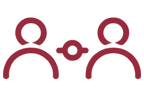
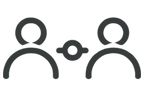
탭 선택색을 진한 회색(#353839)으로 바꾸고, 언어 버튼을 로고 옆 지구 메뉴로 모음
안 고른 탭은 옅은 회색으로 물려 선택과 구분되게 했다.
지구 버튼을 누르면 나라별 언어가 제 나라 글자로 내려오고, 바깥 클릭·Esc로 닫힌다.

Claude-Session: https://claude.ai/code/session_0197ATQkKD5Zk7kEfxxuqvBf

diff --git a/components/ui/LangMenu.tsx b/components/ui/LangMenu.tsx
@@ -1,0 +1,133 @@
+"use client";
+
+import { useEffect, useRef, useState } from "react";
+import { LANGS, type LangCode } from "@/lib/i18n";
+import { useToast } from "@/components/ui/Toast";
+
+/**
+ * 로고 옆 지구 버튼. 누르면 나라별 언어가 목록으로 내려온다.
+ * 바깥을 누르거나 Esc를 누르면 닫힌다. 준비 중인 언어는 고르면 안내만 띄운다.
+ */
+export default function LangMenu({
+  lang,
+  onChange,
+}: {
+  lang: LangCode;
+  onChange: (code: LangCode) => void;
+}) {
+  const toast = useToast();
+  const [open, setOpen] = useState(false);
+  const box = useRef<HTMLDivElement>(null);
+  const current = LANGS.find((l) => l.code === lang);
+
+  useEffect(() => {
+    if (!open) return;
+    const onDown = (e: PointerEvent) => {
+      if (!box.current?.contains(e.target as Node)) setOpen(false);
+    };
+    const onKey = (e: KeyboardEvent) => e.key === "Escape" && setOpen(false);
+    document.addEventListener("pointerdown", onDown);
+    document.addEventListener("keydown", onKey);
+    return () => {
+      document.removeEventListener("pointerdown", onDown);
+      document.removeEventListener("keydown", onKey);
+    };
+  }, [open]);
+
+  return (
+    <div ref={box} className="relative">
+      <button
+        type="button"
+        aria-label="언어 선택"
+        aria-haspopup="listbox"
+        aria-expanded={open}
+        onClick={() => setOpen((v) => !v)}
+        className={`flex items-center gap-1 rounded-pill py-1.5 pl-2 pr-2.5 text-xs font-semibold text-ink transition ${
+          open ? "bg-white shadow-float" : "bg-white/60 hairline hover:bg-white"
+        }`}
+      >
+        <GlobeIcon />
+        {current?.label}
+      </button>
+
+      {open && (
+        <ul
+          role="listbox"
+          aria-label="언어"
+          className="tabbar animate-pop absolute left-0 top-full z-40 mt-2 w-44 origin-top-left rounded-[20px] p-1.5"
+        >
+          {LANGS.map((l) => {
+            const on = l.code === lang;
+            return (
+              <li key={l.code}>
+                <button
+                  type="button"
+                  role="option"
+                  aria-selected={on}
+                  onClick={() => {
+                    if (l.comingSoon) {
+                      toast("Coming soon");
+                      return;
+                    }
+                    onChange(l.code);
+                    setOpen(false);
+                  }}
+                  className={`flex w-full items-center gap-2.5 rounded-[14px] px-3 py-2 text-left text-sm transition ${
+                    on ? "bg-ink text-white" : "text-ink hover:bg-black/5"
+                  } ${l.comingSoon ? "opacity-50" : ""}`}
+                >
+                  <span
+                    className={`w-6 text-[11px] font-semibold ${on ? "text-white/70" : "text-ink-sub"}`}
+                  >
+                    {l.label}
+                  </span>
+                  <span className="flex-1 font-medium">{l.name}</span>
+                  {on && <CheckIcon />}
+                  {l.comingSoon && (
+                    <span className="text-[10px] text-ink-sub">준비 중</span>
+                  )}
+                </button>
+              </li>
+            );
+          })}
+        </ul>
+      )}
+    </div>
+  );
+}
+
+function GlobeIcon() {
+  return (
+    <svg
+      aria-hidden
+      viewBox="0 0 24 24"
+      className="h-[18px] w-[18px]"
+      fill="none"
+      stroke="currentColor"
+      strokeWidth="1.8"
+      strokeLinecap="round"
+      strokeLinejoin="round"
+    >
+      <circle cx="12" cy="12" r="9" />
+      <path d="M3 12h18" />
+      <path d="M12 3c2.5 2.6 3.8 5.6 3.8 9s-1.3 6.4-3.8 9c-2.5-2.6-3.8-5.6-3.8-9S9.5 5.6 12 3z" />
+    </svg>
+  );
+}
+
+function CheckIcon() {
+  return (
+    <svg
+      aria-hidden
+      viewBox="0 0 24 24"
+      className="h-4 w-4"
+      fill="none"
+      stroke="currentColor"
+      strokeWidth="2.2"
+      strokeLinecap="round"
+      strokeLinejoin="round"
+    >
+      <path d="m5 12.5 4.5 4.5L19 7.5" />
+    </svg>
+  );
+}

diff --git a/components/AppShell.tsx b/components/AppShell.tsx
@@ -2,8 +2,7 @@
 
 import { useState } from "react";
 import { useDb } from "@/lib/db";
-import { useToast } from "@/components/ui/Toast";
-import { LANGS, LangProvider, type LangCode } from "@/lib/i18n";
+import { LangProvider, type LangCode } from "@/lib/i18n";
 import HomeTab from "@/components/tabs/HomeTab";
 import AdminTab from "@/components/tabs/AdminTab";
 import PartnerTab from "@/components/tabs/PartnerTab";
@@ -11,6 +10,7 @@ import CompanyTab from "@/components/tabs/CompanyTab";
 import NotePad from "@/components/ui/NotePad";
 import DemoReset from "@/components/ui/DemoReset";
 import IconTabBar from "@/components/ui/IconTabBar";
+import LangMenu from "@/components/ui/LangMenu";
 
 // 아이콘 그림은 public/tabs/ 에 넣는다 (IMAGE_TODO.md 참고).
 // `-on` 파일이 없으면 IconTabBar가 평소 그림을 흐리게/선명하게 바꿔 쓴다.
@@ -25,7 +25,6 @@ type TabId = (typeof TABS)[number]["id"];
 
 export default function AppShell() {
   const { db } = useDb();
-  const toast = useToast();
   const [tab, setTab] = useState<TabId>("home");
   const [lang, setLang] = useState<LangCode>("ko");
 
@@ -41,37 +40,14 @@ export default function AppShell() {
 
   return (
     <div className="mx-auto min-h-dvh w-full max-w-6xl px-4 pb-16 pt-5 sm:px-6">
-      <header className="animate-rise">
-        <div className="flex flex-wrap items-center justify-between gap-3">
+      <header className="animate-rise relative z-30">
+        {/* 언어는 홈 화면에만 걸려 있어서, 지구 버튼도 홈 탭에서만 보인다. */}
+        <div className="flex items-center gap-3">
           <div className="flex items-baseline gap-2">
             <span className="text-2xl font-extrabold tracking-tight">Hey!</span>
             <span className="text-2xl font-light text-ink-sub">Beauty</span>
           </div>
-
-          {tab === "home" && (
-            <div className="flex flex-wrap items-center gap-1.5">
-              {LANGS.map((l) => (
-                <button
-                  key={l.code}
-                  type="button"
-                  onClick={() => {
-                    if (l.comingSoon) {
-                      toast("Coming soon");
-                      return;
-                    }
-                    setLang(l.code);
-                  }}
-                  className={`rounded-pill px-3 py-1.5 text-xs font-medium transition ${
-                    lang === l.code
-                      ? "bg-ink text-white"
-                      : "bg-white/60 text-ink-sub hairline hover:bg-white"
-                  }`}
-                >
-                  {l.label}
-                </button>
-              ))}
-            </div>
-          )}
+          {tab === "home" && <LangMenu lang={lang} onChange={setLang} />}
         </div>
 
         {/* 탭 네 개가 판을 꽉 채우고, 데모 리셋은 그 **오른쪽 바깥**에 선다.

diff --git a/lib/i18n.ts b/lib/i18n.ts
@@ -5,13 +5,14 @@ import { CONTENT, CONTENT_PATTERNS } from "./i18n-content";
 
 export type LangCode = "ko" | "en" | "th" | "zh" | "ru" | "ar";
 
-export const LANGS: { code: LangCode; label: string; comingSoon?: boolean }[] = [
-  { code: "ko", label: "KO" },
-  { code: "en", label: "EN" },
-  { code: "th", label: "TH" },
-  { code: "zh", label: "ZH" },
-  { code: "ru", label: "RU" },
-  { code: "ar", label: "AR", comingSoon: true },
+// name은 그 나라 사람이 읽는 이름 그대로 — 언어 메뉴에 이걸로 뜬다.
+export const LANGS: { code: LangCode; label: string; name: string; comingSoon?: boolean }[] = [
+  { code: "ko", label: "KO", name: "한국어" },
+  { code: "en", label: "EN", name: "English" },
+  { code: "th", label: "TH", name: "ไทย" },
+  { code: "zh", label: "ZH", name: "中文" },
+  { code: "ru", label: "RU", name: "Русский" },
+  { code: "ar", label: "AR", name: "العربية", comingSoon: true },
 ];
 
 export type Entry = Partial<Record<LangCode, string>>;

diff --git a/components/ui/IconTabBar.tsx b/components/ui/IconTabBar.tsx
@@ -52,7 +52,7 @@ export default function IconTabBar<Id extends string>({
                   className={`whitespace-nowrap text-[12.5px] leading-none tracking-tight transition sm:text-sm ${
                     on
                       ? "font-bold text-tab-active"
-                      : "font-medium text-ink group-hover:text-ink-deep"
+                      : "font-medium text-[#8a9096] group-hover:text-ink-sub"
                   }`}
                 >
                   {t.label}

diff --git a/app/globals.css b/app/globals.css
@@ -12,7 +12,7 @@
   --color-surface: #f6f6f6;
   --color-danger: #e23d3d;
   /* 고른 탭의 글자색. 아이콘 -on 그림과 같은 색으로 맞춘다. */
-  --color-tab-active: #96273a;
+  --color-tab-active: #353839;
 
   --radius-card: 30px;
   --radius-pill: 999px;
